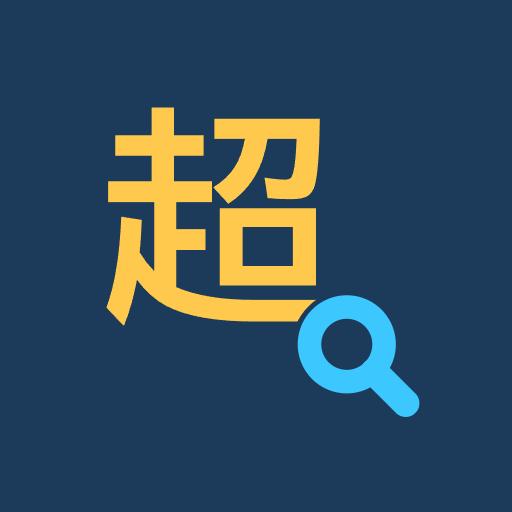
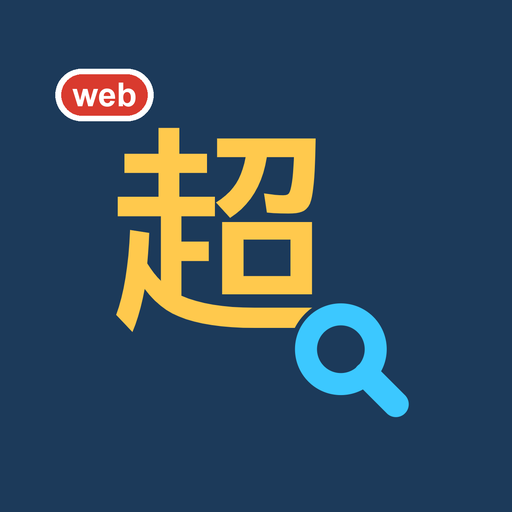
v1.3: アイコンを Android 版と同じ絵に、左上に web の札（Android の Chrome 用の maskable も）

Changed region(s): [[0.0938, 0.125, 0.8438, 0.8125]]

diff --git a/sw.js b/sw.js
@@ -3,8 +3,8 @@
 // - つながらないとき、またはサーバーが「ない」「エラー」と答えたとき（404・500 など）は、覚えておいた版で動く
 //   （サーバーのファイルが消えても、それまでの版で使い続けられる）
 // - 同じ chocorin0000.github.io に「超！手書き」もあるので、消すのは自分（kaden-）の覚えだけ
-const CACHE = 'kaden-v3';
-const FILES = ['./', 'index.html', 'app.js', 'manifest.webmanifest', 'icon-180.png', 'icon-192.png', 'icon-512.png'];
+const CACHE = 'kaden-v4';
+const FILES = ['./', 'index.html', 'app.js', 'manifest.webmanifest', 'icon-180.png', 'icon-192.png', 'icon-512.png', 'icon-maskable-192.png', 'icon-maskable-512.png'];
 let state = { type: 'kaden-status', state: 'ok' };
 
 self.addEventListener('install', e => {

diff --git a/app.js b/app.js
@@ -7,7 +7,7 @@
 // - 撮った写真・取扱説明書の PDF は、共有の画面（iPhone なら「画像を保存」「ファイルに保存」）で保存できる（v1.2）
 // - スクリプトの URL と合言葉は、この機械のブラウザの中（localStorage）だけに覚える。GitHub には置かない
 'use strict';
-var VERSION = 'v1.2（2026-11-02）';
+var VERSION = 'v1.3（2026-11-03）';
 var MAX_SIDE = 2048;  // AI に送る写真の大きさ（長い辺）
 var jpeg = null;      // 送る写真（base64）
 var photoUrl = null;  // 画面に出している写真（data URL）
